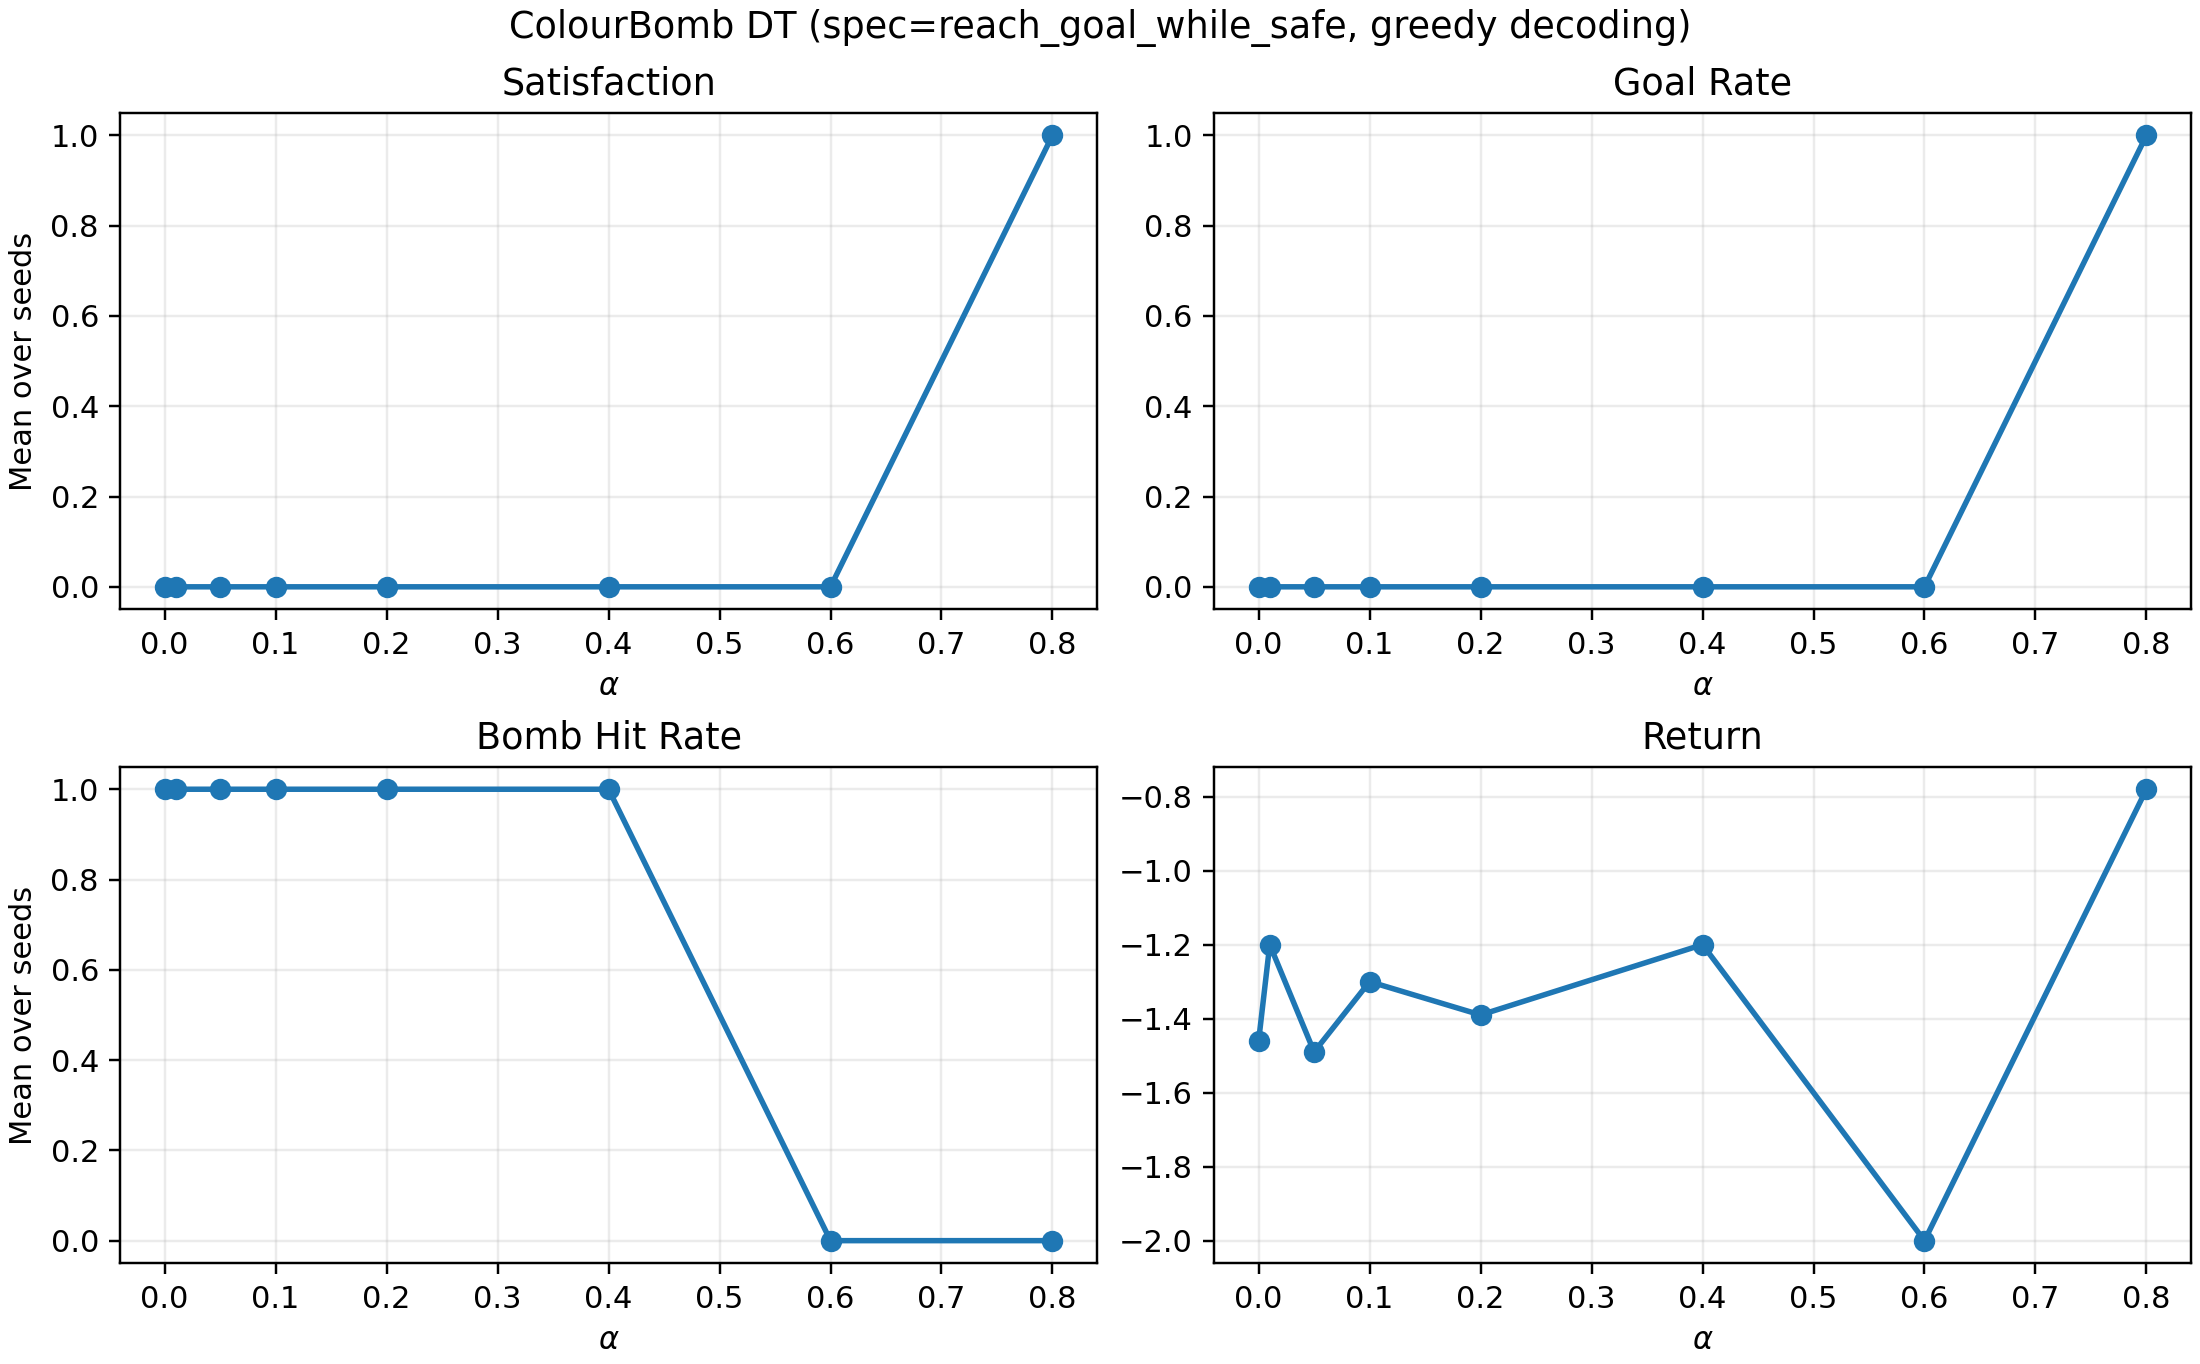
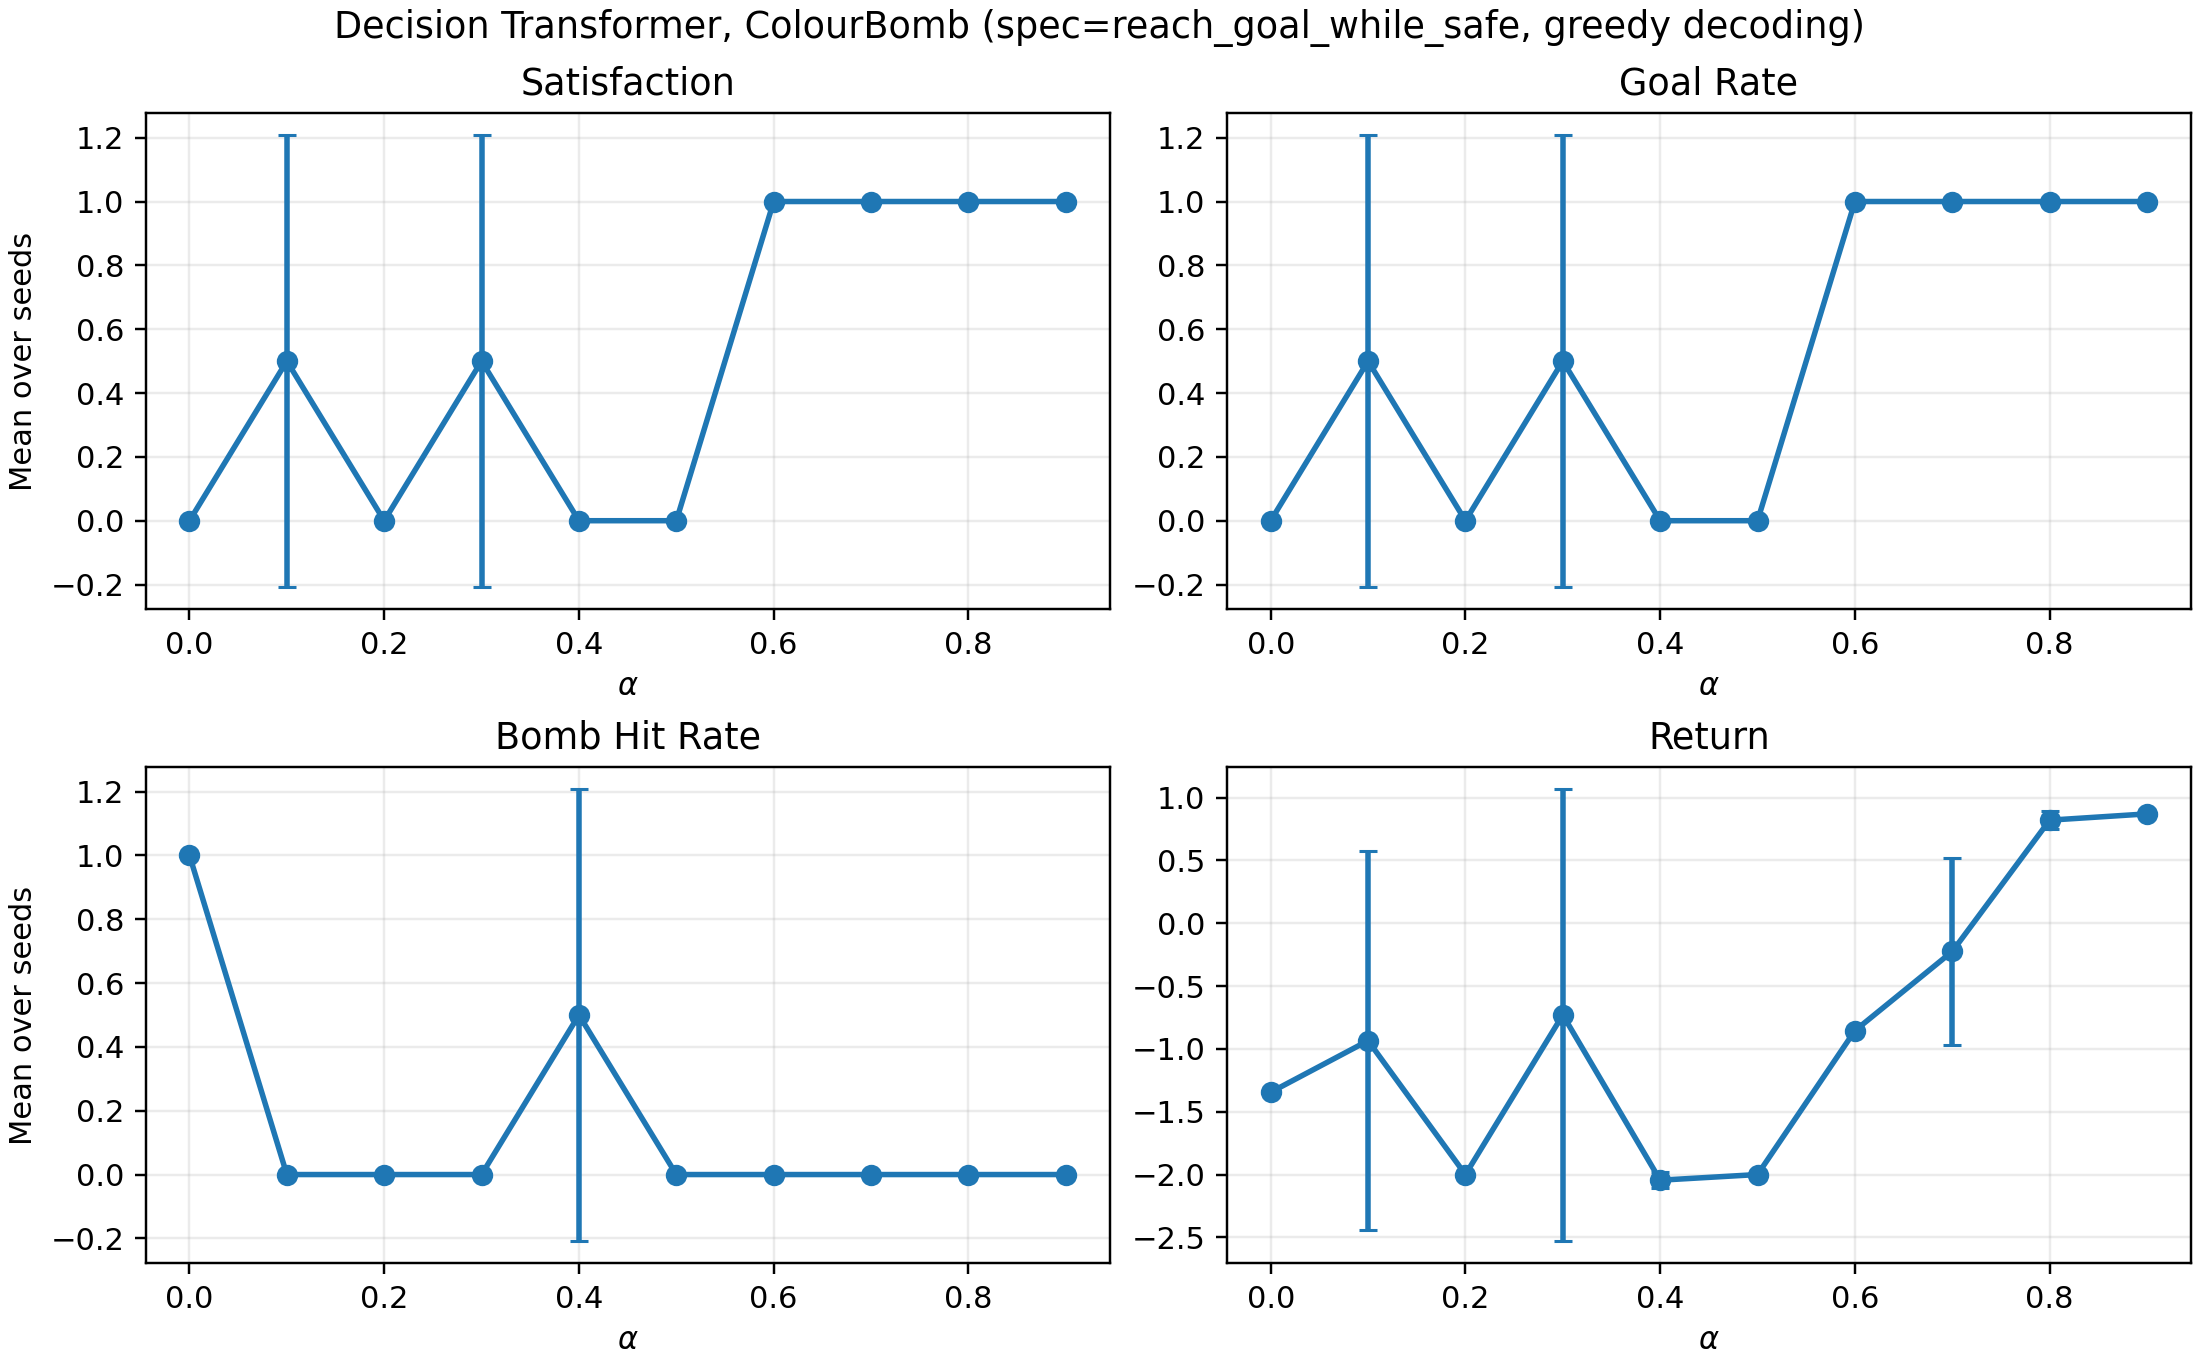
Updates DT figures and table in paper

diff --git a/paper/6_prelim_exp.tex b/paper/6_prelim_exp.tex
@@ -2,14 +2,15 @@
 \subsection*{Experiments on Decision Transformers}
 Here, we report the preliminary results obtained by DTs. 
 %The goal of these experiments is to assess the effectiveness of logic regularization on both safety and task performance. 
-All the experiments are repeated three times with different random seeds; the small standard deviation is due to the deterministic gridworld dynamics.
+The DT product-value experiments are aggregated over three independent random seeds.
 
 
 \paragraph{Invariant Safety.}
 We report Decision Transformer (DT) alpha-sweep results with greedy decoding.
-For the invariant safety specification $G(\neg bomb)$, low-to-mid regularization strengths ($\alpha \leq 0.4$) do not improve behavior over vanilla DT: the agent still hits bombs and never reaches the goal.
-At higher regularization, both $\alpha=0.6$ and $\alpha=0.8$ achieve full safety satisfaction and zero bomb-hit rate.
-However, $\alpha=0.6$ is overly conservative (goal rate $=0$), while $\alpha=0.8$ preserves safety and also reaches the goal, yielding the strongest return.
+For the invariant safety specification $G(\neg bomb)$, vanilla DT consistently reaches bomb states and obtains zero satisfaction.
+All logic-regularized settings remove bomb hits and satisfy the safety formula.
+% However, several settings become overly conservative and fail to reach a goal within the episode horizon.
+Using satisfaction as the primary criterion and return as a tie-breaker, the best configuration is $\alpha=0.4$.
 
 \begin{figure}[!th]
 \centering
@@ -20,9 +21,10 @@ However, $\alpha=0.6$ is overly conservative (goal rate $=0$), while $\alpha=0.8
 
 \paragraph{Reach-while-Safe.}
 For the conjunctive specification $G(\neg bomb) \land F(goal)$, the setting is harder because safety and goal achievement must hold together.
-As in the invariant case, $\alpha \leq 0.4$ does not change the baseline failure mode.
-At $\alpha=0.6$, DT removes bomb hits but still fails to satisfy the full formula due to zero goal-reaching.
-Only $\alpha=0.8$ jointly achieves safety and goal attainment, giving the best satisfaction and return. These results are consistent with the findings in the invariant security case.
+Vanilla DT again fails the specification by reaching bomb states and never reaching a goal.
+Intermediate values of $\alpha$ show unstable behavior across seeds: some configurations avoid bombs but time out, while others reach the goal safely.
+For $\alpha \geq 0.6$, the model satisfies the full reach-while-safe specification in both seeds.
+The best configuration under the same satisfaction-then-return criterion is $\alpha=0.9$.
 
 \begin{figure}[!th]
 \centering
@@ -53,8 +55,10 @@ Figure \ref{fig:cb_dt_metrics_bar_example} reports the full per-metric bar summa
 \end{comment}
 
 \paragraph{Quantitative Summary.}
-Table~\ref{tab:cb_dt_key_results} highlights a sharp transition in DT behavior under logic regularization.
-While vanilla DT completely fails—yielding zero satisfaction and always hitting bomb states—high logical regularization ($\alpha=0.8$) improves significantly the behavior of the model. In this setting, the policy simultaneously achieves perfect satisfaction, zero bomb-hit rate, and consistent goal reaching across both specifications, leading to a substantial improvement in return. 
+Table~\ref{tab:cb_dt_key_results} summarizes the vanilla baseline and the best logic-regularized configuration for each specification.
+Logic regularization eliminates bomb hits for both objectives.
+For the safety-only formula, the selected configuration satisfies the safety constraint but reaches the goal in only one of the seeds.
+For the reach-while-safe formula, $\alpha=0.9$ achieves perfect satisfaction, zero bomb-hit rate, and consistent goal reaching, substantially improving return over vanilla DT.
 
 \begin{table}[!th]
 \centering
@@ -62,11 +66,11 @@ While vanilla DT completely fails—yielding zero satisfaction and always hittin
 \toprule
 Spec & Setting & Satisfaction & Goal & Bomb Hit & Return \\
 \midrule
-\texttt{safety} & vanilla ($\alpha=0$) & 0.000 & 0.000 & 1.000 & -1.460 \\
-\texttt{safety} & logic ($\alpha=0.8$) & \textbf{1.000} & \textbf{1.000} & \textbf{0.000} & \textbf{-0.780} \\
+\texttt{safety} & vanilla ($\alpha=0$) & 0.000 & 0.000 & 1.000 & \textbf{-1.345} \\
+\texttt{safety} & logic ($\alpha=0.4$) & \textbf{1.000} & \textbf{0.500} & \textbf{0.000} & -1.435 \\
 \midrule
-\texttt{reach-while-safe} & vanilla ($\alpha=0$) & 0.000 & 0.000 & 1.000 & -1.460 \\
-\texttt{reach-while-safe} & logic ($\alpha=0.8$) & \textbf{1.000} & \textbf{1.000} & \textbf{0.000} & \textbf{-0.780} \\
+\texttt{reach-while-safe} & vanilla ($\alpha=0$) & 0.000 & 0.000 & 1.000 & -1.345 \\
+\texttt{reach-while-safe} & logic ($\alpha=0.9$) & \textbf{1.000} & \textbf{1.000} & \textbf{0.000} & \textbf{0.870} \\
 \bottomrule
 \end{tabular}
 \caption{Decision Transformer key results.}
@@ -145,5 +149,3 @@ Spec & Setting & Satisfaction & Goal & Bomb Hit & Return \\
 \caption{Trajectory Transformer key results.}
 \label{tab:cb_key_results}
 \end{table}
-
-
